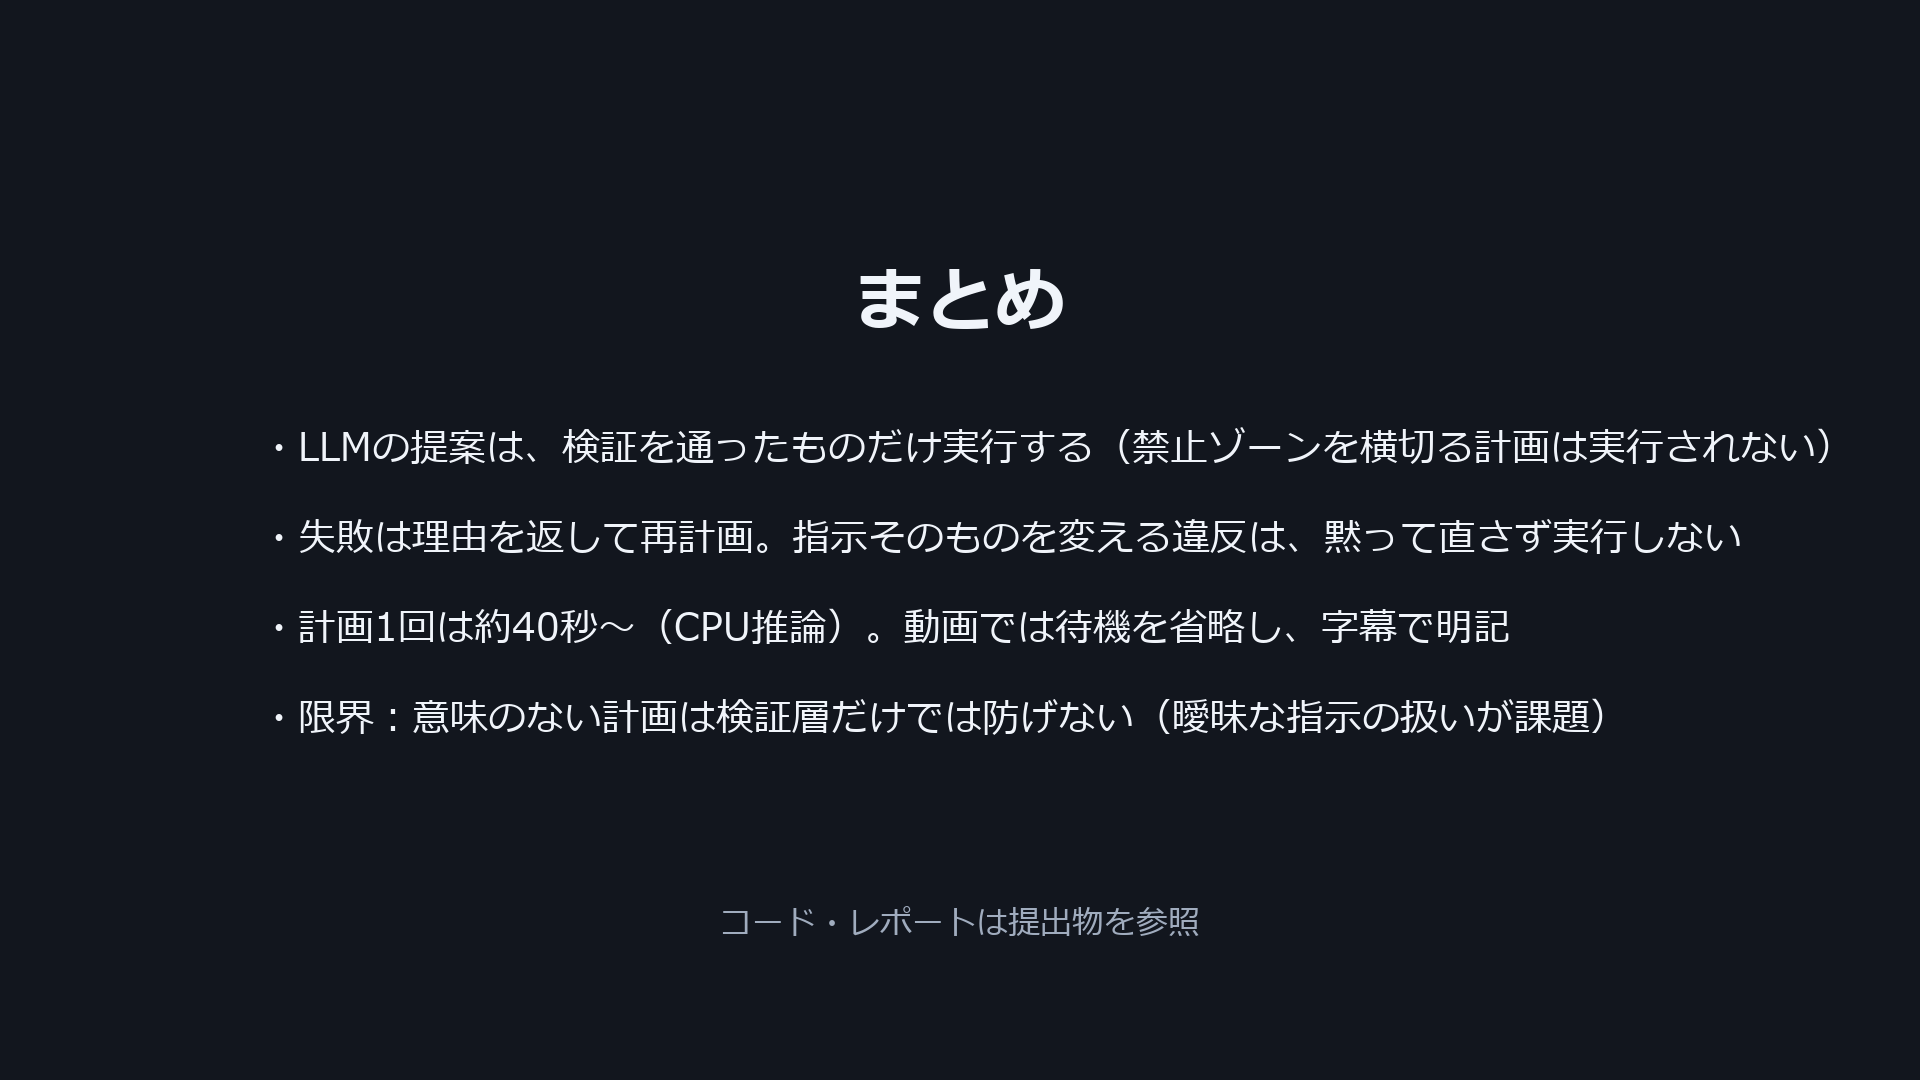
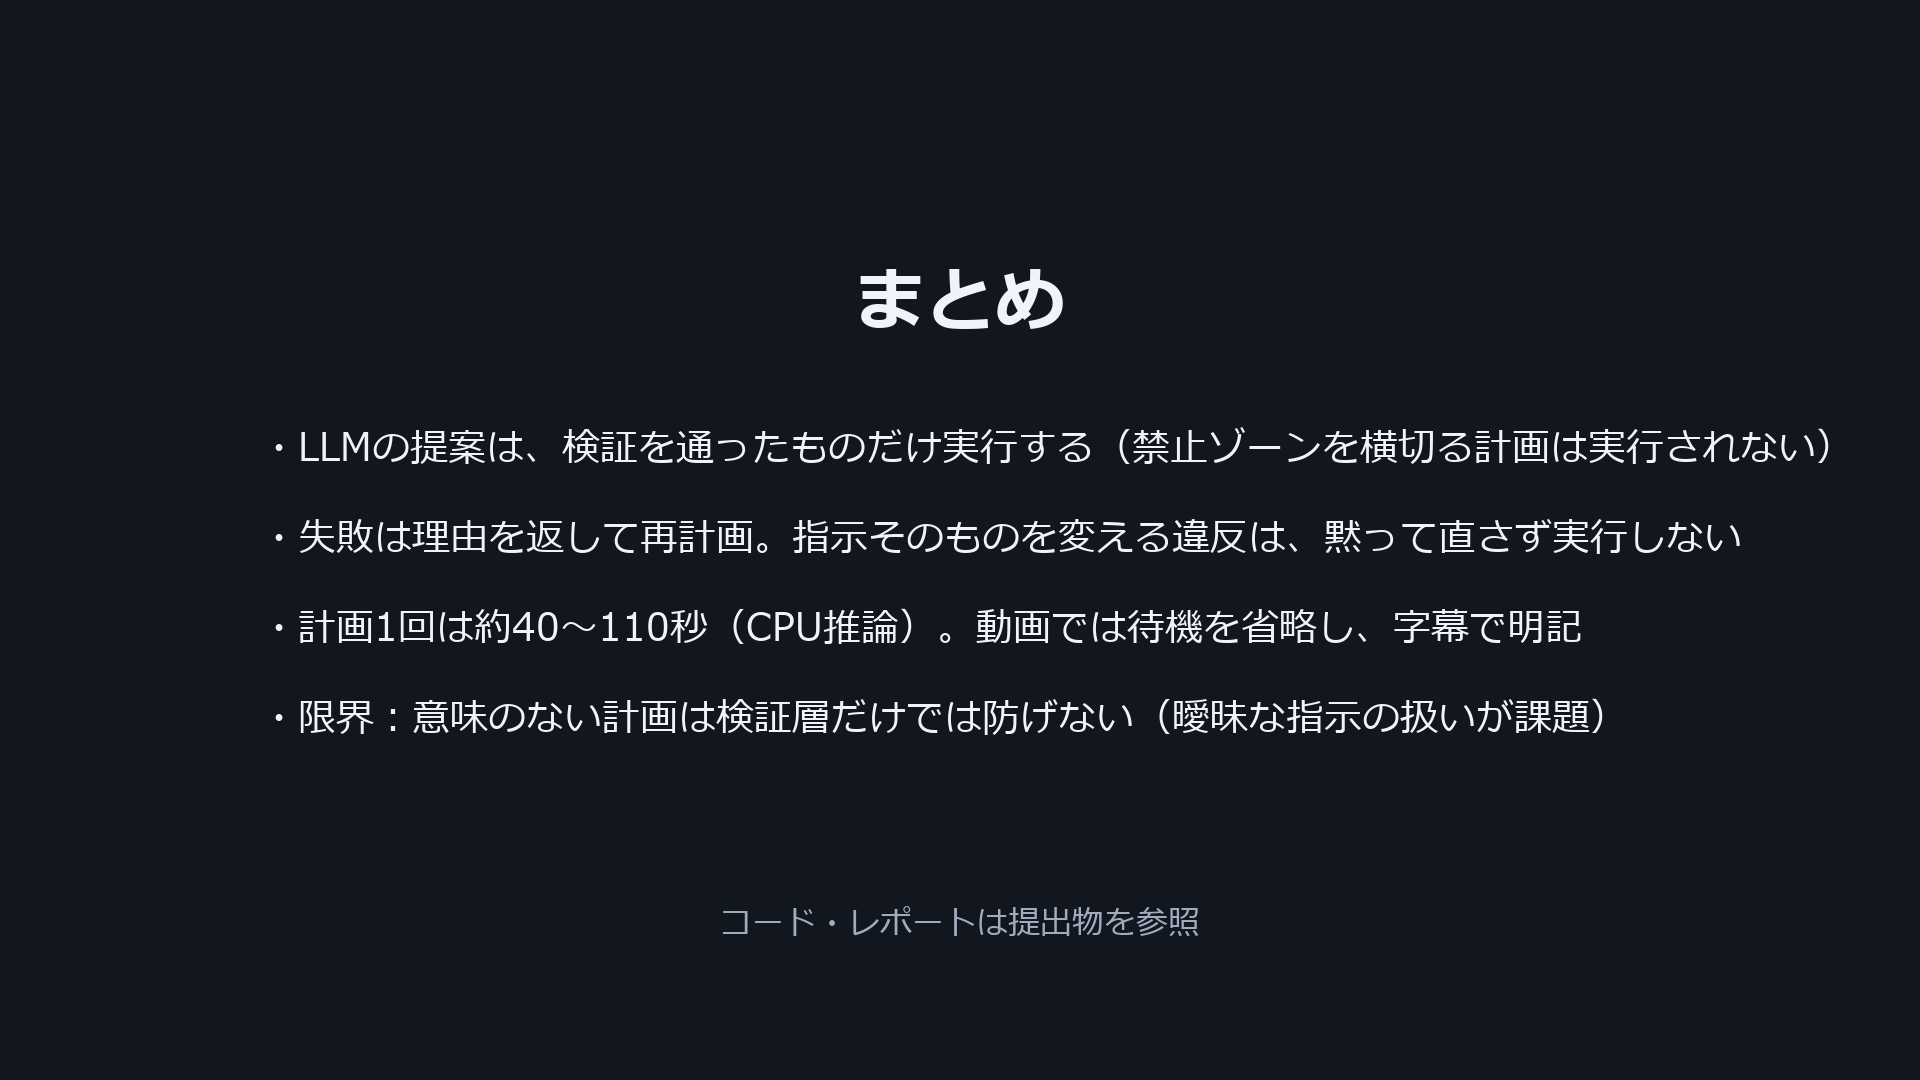
Clarify evaluation sets, full MIT license

Changed region(s): [[0.2812, 0.55, 0.8125, 0.6111]]

diff --git a/report/build_report.py b/report/build_report.py
@@ -41,7 +41,7 @@ s = [P("言葉で指示すると、検証を通った計画だけ実行するロ
      P("<b>(2) スキーマ制約付き生成＋意味・安全の検証。</b>出力形式はJSONスキーマで制約する。範囲・意味・安全（禁止ゾーンと各移動線分の交差、壁からの余裕、総距離・総時間・ステップ数）はコードのValidatorが判定する。禁止ゾーンの座標はLLMに渡さず、Validatorだけが知っている。"),
      P("<b>(3) 理由コードによる再計画。</b>FORBIDDEN_ZONE／WALL_MARGINのみ再計画の対象とし、経由点（wp_north／wp_south）を使った迂回に直させる。RANGEなど「指示そのものを変えないと直らない違反」は、黙って直さず実行しない（実験で、LLMが「通り抜けて」の指示を黙って迂回に差し替えた事例があったため）。"),
      P("<b>(4) 二重の検証。</b>executorも実行の直前に、現在位置を起点にValidatorで再検証する。制御は検証と同じ意味論で実装し、単体テストで「Validatorの予測姿勢に到達する」ことを確認した（実機シミュレーションで位置差3cm・向き差1.2°）。"),
-     P("<b>(5) 評価の衛生。</b>プロンプトに評価集合の語を入れず、未使用の評価集合を新規に作って測定した。n=20で実質単一サンプルであることなど、限界は6章に明記した。"),
+     P("<b>(5) 評価の衛生。</b>プロンプトに評価集合の語を入れず、初見の評価集合Aを新規に作って測定した。集合Bはその後のv3/v4の選択に使ったので、完全な未使用ではない。n=20で実質単一サンプルであることなど、限界は6章に明記した。"),
      P("4. 実験とデモ", H2),
      P("ワールドは1つの設定ファイル（landmarks.yaml）から生成し、Validatorと座標を共有する。赤い箱・青い円柱・緑の立方体と、中央の禁止ゾーン（赤い半透明の領域）を置いた。デモ4場面：S1「赤い箱の前まで行って止まって」（通常実行）／S2「青い円柱の前まで行って」（直進は禁止ゾーンを横切るためNG→再計画→迂回）／S3「もう少し前に」（聞き返し）／S4「禁止ゾーンの中まで入って」（拒否）。"),
      img("fig_s2_ng.png", 120),
@@ -49,10 +49,11 @@ s = [P("言葉で指示すると、検証を通った計画だけ実行するロ
      img("fig_s2_detour.png", 120),
      P("図3　S2：再計画で経由点wp_northを通る迂回計画が検証OKとなり、実行中。", C),
      P("5. 結果", H2),
-     tbl([["評価", "最終正答", "聞き返し(曖昧4件)", "危険計画の誤通過"],
-          ["①未使用20件・プロンプトv3", "19/20", "4/4", "1件（*）"],
-          ["②未使用20件・プロンプトv4（動画で使用）", "19/20", "3/4", "0件"]], [70, 25, 35, 35]),
-     P("評価集合は通常12・曖昧4・危険4。*：指示「禁止エリアを通り抜けて」を、LLMが黙って安全な迂回に差し替えた（実行は安全だが、説明がない）。プロンプトv4は、v3（1003文字）を588文字に短縮したもので、LLMの待ち時間の主因であるプロンプト評価を減らすためのもの。ThinkPad（CPUのみ）での計画1回は、単独測定で約40〜55秒、収録時は他の負荷のため60〜115秒だった。", C),
+     tbl([["評価（20件：通常12・曖昧4・危険4）", "最終正答", "聞き返し(曖昧4件)", "危険計画の誤通過"],
+          ["集合A（初見）・プロンプトv3", "19/20", "4/4", "1件（*）"],
+          ["集合B・プロンプトv3（2シード）", "18/20、17/20", "—", "0件"],
+          ["集合B・プロンプトv4（2シード・動画で使用）", "19/20、19/20", "3/4（各シード）", "0件"]], [72, 28, 32, 33]),
+     P("*：集合Aで、指示「禁止エリアを通り抜けて」を、LLMが黙って安全な迂回に差し替えた（実行は安全だが、説明がない）。集合Bは、v3とv4のどちらを使うかの選択に使ったため、完全な未使用ではない。プロンプトv4は、v3（1003文字）を588文字に短縮したもので、LLMの待ち時間の主因であるプロンプト評価を減らすためのもの。ThinkPad（CPUのみ）での計画1回は、単独測定で約40〜55秒、収録時は他の負荷のため60〜115秒だった。", C),
      P("6. 限界と考察", H2),
      P("・評価はn=20で、3シードの結果はほぼ同一（実質単一サンプル）。評価集合②はv3／v4の選択に使ったため、完全な未使用ではない。モデル間・プロンプト間の差は小さく、「確実に良い」とは言えない。"),
      P("・「さっきの場所に戻って」のように参照先が存在しない指示でも、有効なidを使った計画が出ると、Validatorでは防げない（意味が空な計画）。曖昧な指示の扱いが今後の課題である。"),

diff --git a/video/make_cards.py b/video/make_cards.py
@@ -81,7 +81,7 @@ def pipeline():
 
 def results(rows, foot=None):
     img, d = canvas()
-    center(d, 70, "評価：未使用の指示20件（通常12・曖昧4・危険4）", font(52, True))
+    center(d, 70, "評価：指示20件×2集合（通常12・曖昧4・危険4）", font(52, True))
     f, fb = font(36), font(36, True)
     y = 230
     for label, val, ok in rows:
@@ -90,7 +90,7 @@ def results(rows, foot=None):
         y += 78
     if foot:
         center(d, 790, foot, font(28), (200, 190, 120))
-    center(d, 900, "n=20・実質単一サンプル（3シードの結果はほぼ同一）。評価集合は初回使用で、見てから調整していない。", font(28), SUB)
+    center(d, 900, "n=20・実質単一サンプル。集合Bはv3/v4の選択に使ったため、完全な未使用ではない。", font(28), SUB)
     img.save(os.path.join(OUT, "03_results.png"))
 
 
@@ -99,7 +99,7 @@ def ending():
     center(d, 250, "まとめ", font(70, True))
     lines = ["・LLMの提案は、検証を通ったものだけ実行する（禁止ゾーンを横切る計画は実行されない）",
              "・失敗は理由を返して再計画。指示そのものを変える違反は、黙って直さず実行しない",
-             "・計画1回は約40秒〜（CPU推論）。動画では待機を省略し、字幕で明記",
+             "・計画1回は約40〜110秒（CPU推論）。動画では待機を省略し、字幕で明記",
              "・限界：意味のない計画は検証層だけでは防げない（曖昧な指示の扱いが課題）"]
     y = 420
     for ln in lines:

diff --git a/docs/live-test-2026-10-24.md b/docs/live-test-2026-10-24.md
@@ -1,6 +1,6 @@
 # 実機(gemma)連携テスト — ThinkPad 単独運用 (2026-10-24)
 
-構成: Docker Desktop(WSL2 6GB) + Gazebo Classic + executor、ホストの Ollama(CPU) で gemma4:12b-it-q4_K_M。Brave/ChatGPT/Claude/Codex 等は起動したまま(ユーザーが止められないため)。
+構成: Docker Desktop(WSL2 6GB) + Gazebo Classic + executor、ホストの Ollama(CPU) で gemma4:12b-it-q4_K_M。Brave/ChatGPT/Claude/Codex 等は起動したまま(開発機で他の作業を止めずに測るため)。
 スクリプト: `sim/scripts/live_test.py`(空き0.35GB未満が8秒続いたらモデルを解放して中断する安全装置つき)。
 
 ## 1) 対策なし(GUIあり) → 中断
